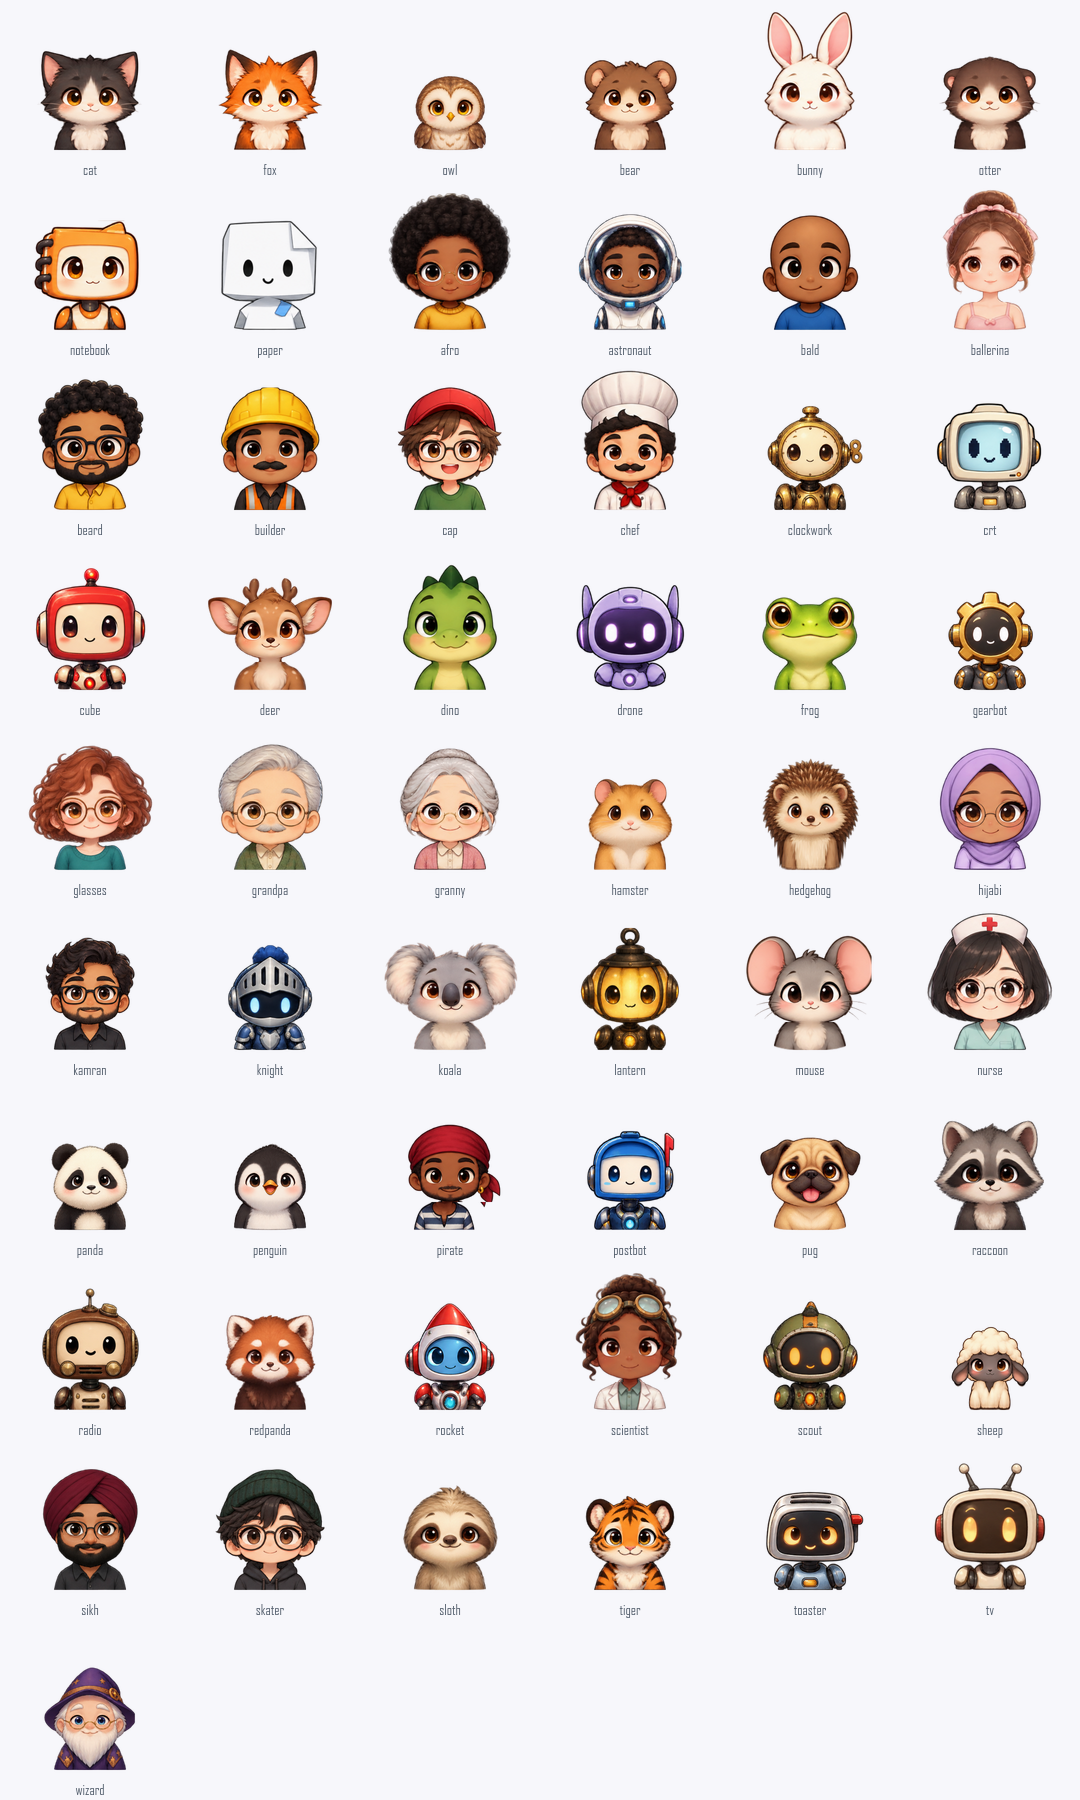
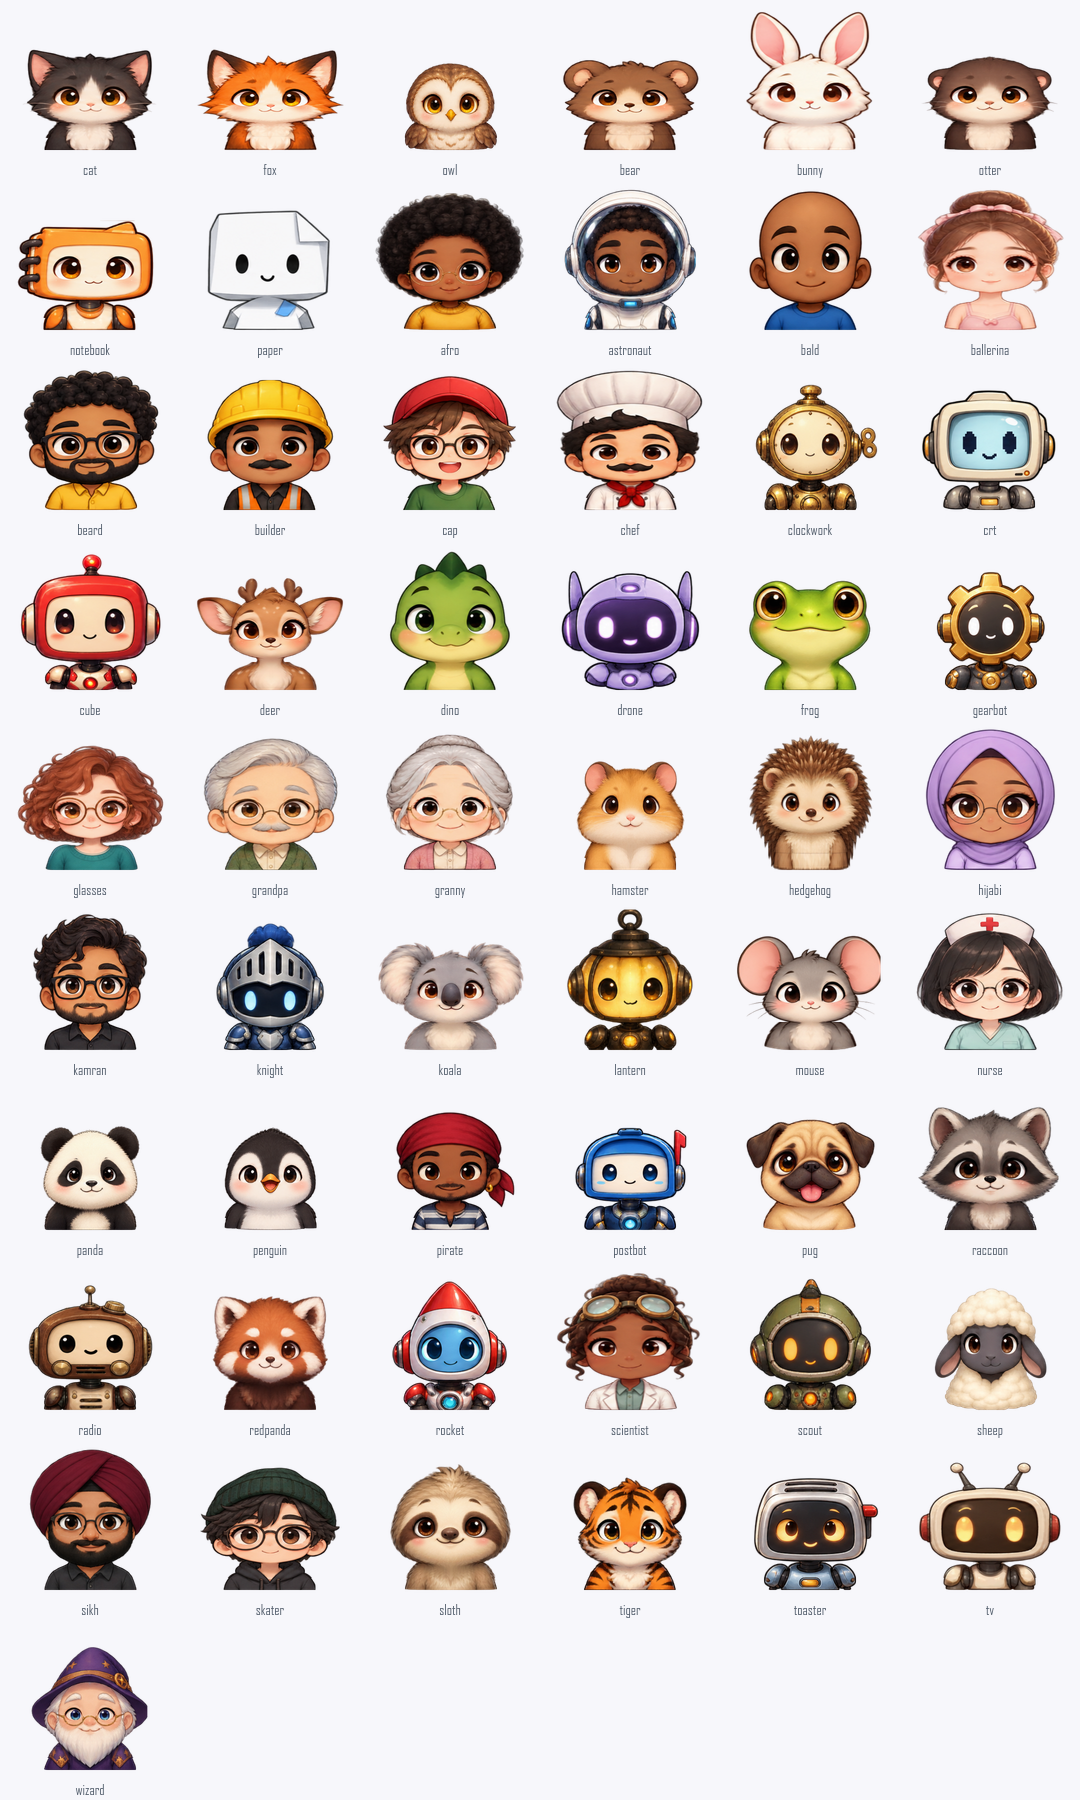
fix(mascot): enlarge companions and blend aligned neck joins

diff --git a/ntc_react/e2e/mascot-artwork.spec.ts b/ntc_react/e2e/mascot-artwork.spec.ts
@@ -51,7 +51,8 @@ test("all project companions have one identical torso across all eighteen frames
             right = Math.max(right, x);
             bottom = Math.max(bottom, y);
           }
-          for (const cell of cells) {
+          if (y < 276) continue;
+        for (const cell of cells) {
             // Browser premultiplication may round near-transparent colors; allow 1/255.
             if (
               Math.abs(cell[p + 3] - ref[p + 3]) > 1 ||
@@ -74,8 +75,8 @@ test("all project companions have one identical torso across all eighteen frames
       return { changed, bodyWidth: right - left + 1, bottom, edgePixels };
     }, mascotPresetSources(name));
     expect(result.changed, name + " torso changes").toBe(0);
-    expect(result.bodyWidth, name + " width").toBeGreaterThanOrEqual(142);
-    expect(result.bodyWidth, name + " width").toBeLessThanOrEqual(146);
+    expect(result.bodyWidth, name + " width").toBeGreaterThanOrEqual(182);
+    expect(result.bodyWidth, name + " width").toBeLessThanOrEqual(186);
     expect(result.bottom, name + " baseline").toBe(299);
     expect(result.edgePixels, name + " clipped pixels").toBe(0);
   }
@@ -86,7 +87,7 @@ test("paper pal uses the cool white redesign instead of the beige portrait", asy
 }) => {
   await page.goto("/Home");
   const sources = mascotPresetSources("paper");
-  expect(sources.directions).toContain("/ntc-v2/");
+  expect(sources.directions).toContain("/ntc-v3/");
   const warmRatio = await page.evaluate(async (source) => {
     const image = new Image();
     image.src = source;

diff --git a/ntc_react/e2e/mascot-settings.spec.ts b/ntc_react/e2e/mascot-settings.spec.ts
@@ -16,9 +16,7 @@ test("appearance remembers presets and provides no second custom-upload slot", a
   const toggle = page.getByRole("switch", { name: "Show mascot" });
   await expect(toggle).toBeChecked();
   await expect(page.getByRole("radio")).toHaveCount(55);
-  await expect(
-    page.getByText("NoteTatCa companions", { exact: true }),
-  ).toBeVisible();
+  await expect(page.getByText("Animals", { exact: true })).toBeVisible();
   for (const name of [
     "Cat",
     "Fox",
@@ -95,7 +93,7 @@ test("legacy presets retain their choice and disabled state; unknown presets fal
   });
   await expect(page.locator(".note-mascot .mascot-directions")).toHaveCSS(
     "background-image",
-    /ntc-v1\/koala-directions.webp/,
+    /ntc-v3\/koala-directions.webp/,
   );
   await page.evaluate(() => {
     localStorage.setItem("ntc.mascot.v1", "on:retired-example");
@@ -103,6 +101,6 @@ test("legacy presets retain their choice and disabled state; unknown presets fal
   });
   await expect(page.locator(".note-mascot .mascot-directions")).toHaveCSS(
     "background-image",
-    /ntc-v1\/bunny-directions.webp/,
+    /ntc-v3\/bunny-directions.webp/,
   );
 });

diff --git a/ntc_react/src/features/mascot/mascotPreference.ts b/ntc_react/src/features/mascot/mascotPreference.ts
@@ -2,12 +2,14 @@ import { useSyncExternalStore } from "react";
 
 export const mascotGroups = [
   {
-    label: "NoteTatCa companions",
-    names: ["cat", "fox", "owl", "bear", "bunny", "otter", "notebook", "paper"],
-  },
-  {
     label: "Animals",
     names: [
+      "cat",
+      "fox",
+      "owl",
+      "bear",
+      "bunny",
+      "otter",
       "deer",
       "dino",
       "frog",
@@ -65,6 +67,8 @@ export const mascotGroups = [
       "scout",
       "toaster",
       "tv",
+      "notebook",
+      "paper",
     ],
   },
 ] as const;
@@ -76,7 +80,7 @@ export type MascotCharacter =
 
 // Versioned URLs keep existing browser/CDN caches from serving the old artwork.
 export function mascotPresetSources(name: (typeof mascotCharacters)[number]) {
-  const version = name === "paper" ? "ntc-v2" : "ntc-v1";
+  const version = "ntc-v3";
   return {
     directions: `/mascots/${version}/${name}-directions.webp`,
     reactions: `/mascots/${version}/${name}-reactions.webp`,

diff --git a/docs/worklog.md b/docs/worklog.md
@@ -3,6 +3,10 @@
 - Bỏ thứ tự CSS riêng đẩy nút thêm icon sang sau title; dùng thứ tự DOM identity→title→actions cho cả có/chưa icon. Cùng width28/height36 để thêm emoji không dịch tiêu đề; pin/fullscreen vẫn margin-left:auto bên phải.
 - Validation Chromium header 2/2 PASS: tiêu đề trống/có chữ, vị trí và width icon trước/sau chọn giữ nguyên, title x lệch<1px, pin/fullscreen View/Edit giữ vị trí/trạng thái. React production build + focused ESLint PASS; .NET Release strict 0warning/0error. Không DB/email thật/deploy/migrate. Scope styles/header E2E/entry này; giữ nguyên thay đổi mascot/archive/history/performance đang có. Push main theo quyền hiện có và kiểm remote SHA.
 
+## Mascot grouping and size correction — 2026-10-28
+
+- Merged six animals into Animals and notebook/paper into Robots. Regenerated sheep using built-in image_gen. Increased canonical torso width144→184 and aligned its neck center with the head anchor. Final React build PASS. Earlier focused Chromium6/6 PASS; final five browser behavior checks PASS and rerun2/2 artwork checks PASS18.6s. Initial lower-band width assertion failed on hedgehog because it measured only the tapered bottom; width now measured over the full neutral torso, unchanged pixels checked belowy276. Torso width184, per-angle neck width matching and32px head/neck overlap replace hard horizontal cut; bottom chest remains pixel-fixed fromy276. All preset URLs use ntc-v3. Reviewed right-looking sheep/owl/fox/wizard contact sheet: hard collar cut removed. Full ESLint and .NET Release strict PASS0warnings/errors. Preview export initially failed due to an open image file; changed output to paper-preview-v3.webp and rebuilt successfully. No ownerDB/email/deploy/migration; full device/production validation not run; existing unrelated changes preserved. Publication scope only mascot assets/catalog/build script,2tests,artwork docs/worklog.
+
 ## Mở note trực tiếp trên Reminders — 2026-10-28
 
 - Bỏ link/nút View note, cả bề mặt card dùng button tiêu đề với vùng click phủ card, hỗ trợ Tab/Enter/focus ring. Menu actions có lớp riêng để không mở note ngoài ý muốn. Lazy-load NoteEditor hiện có ngay trên /reminders, đóng trở lại danh sách giữ URL; hỗ trợ View/Edit/mascot/autosave hiện có, không thêm API hoặc đổi ownership.

diff --git a/docs/MASCOT-ARTWORK.md b/docs/MASCOT-ARTWORK.md
@@ -1,3 +1,5 @@
+CURRENT correction 2026-10-28: gallery now Animals/People/Robots only; notebook/paper are Robots. All active atlases use ntc-v3. Sheep regenerated, body width184 (previous144), centered at the neck rather than silhouette center. Head horizontal scale matches each direction's neck width. A32px overlap blends the natural head/beard into the canonical torso; pixel-fixed lower chest startsy276, baseline300. Earlier descriptions below document v1/v2 history, not the corrected geometry.
+
 # Bộ nhân vật riêng NoteTatCa — 2026-10-28
 
 CURRENT: Appearance dùng 55 preset riêng: bộ8đầu (Cat, Fox, Owl, Bear, Bunny,
